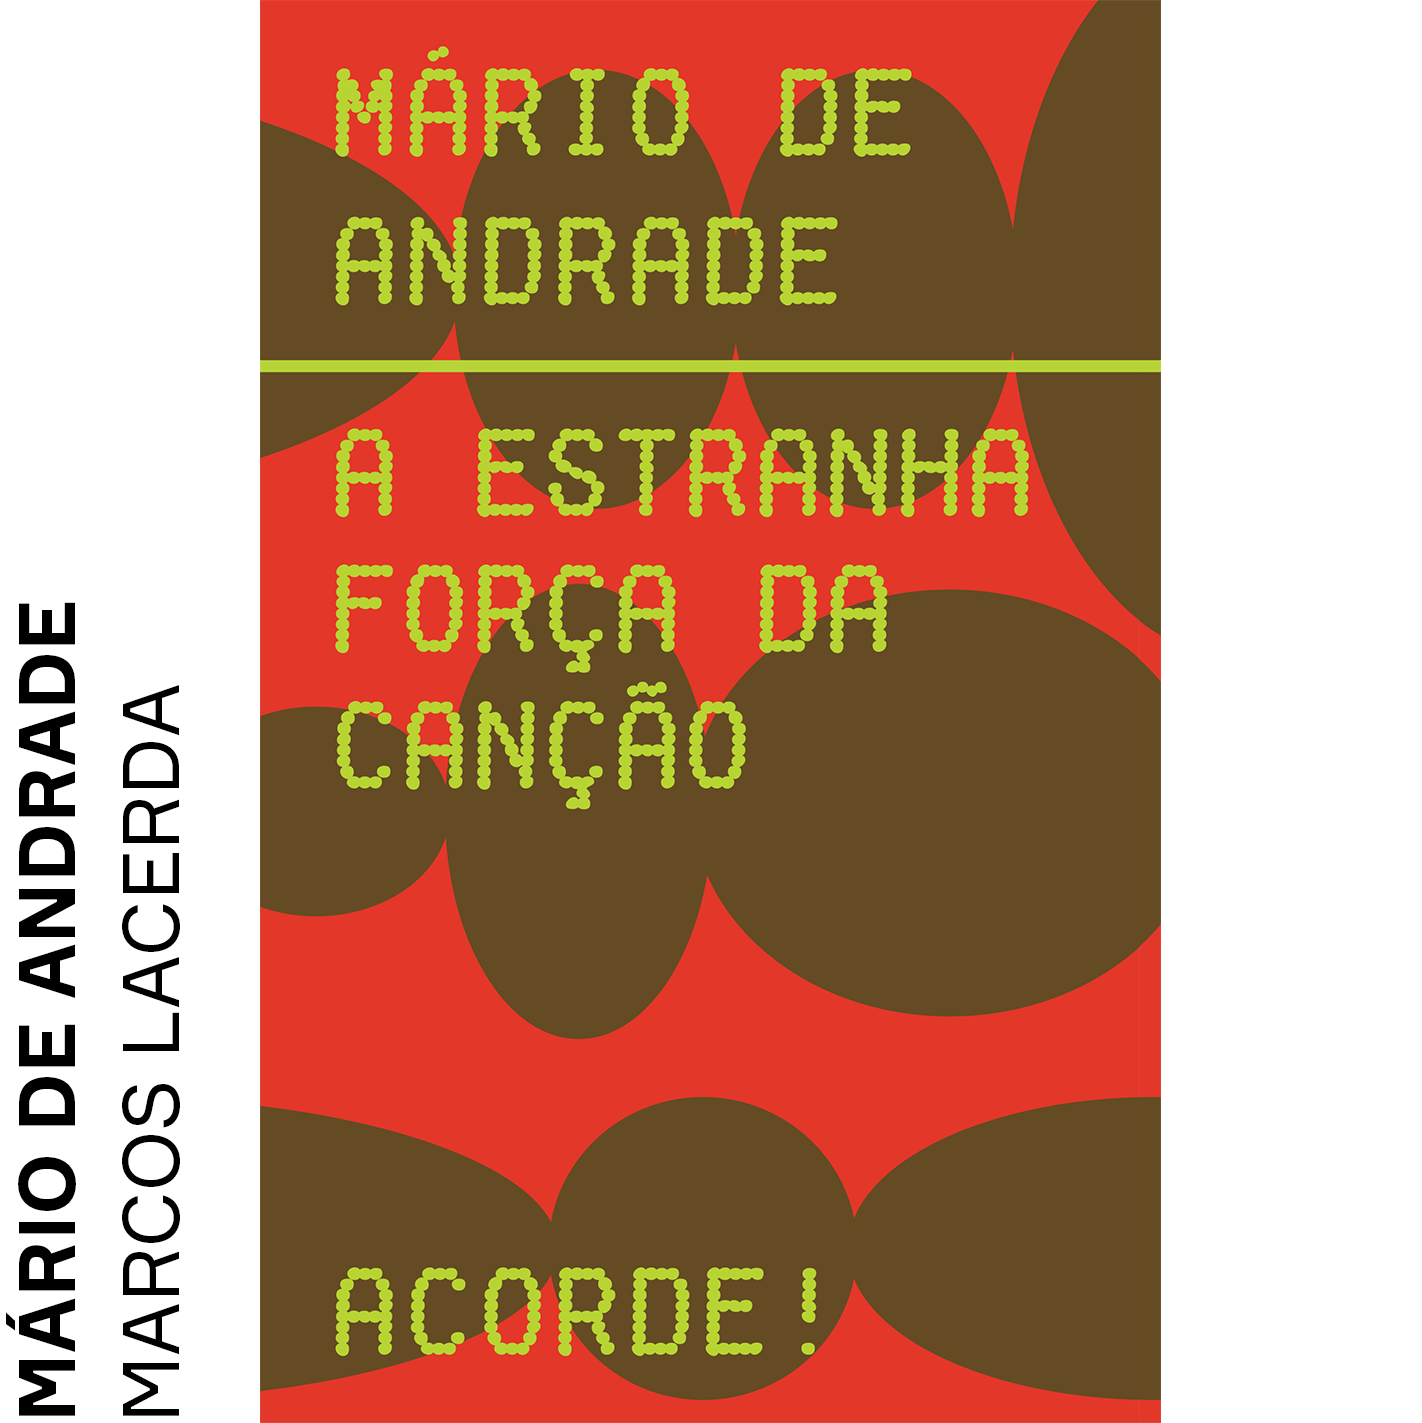
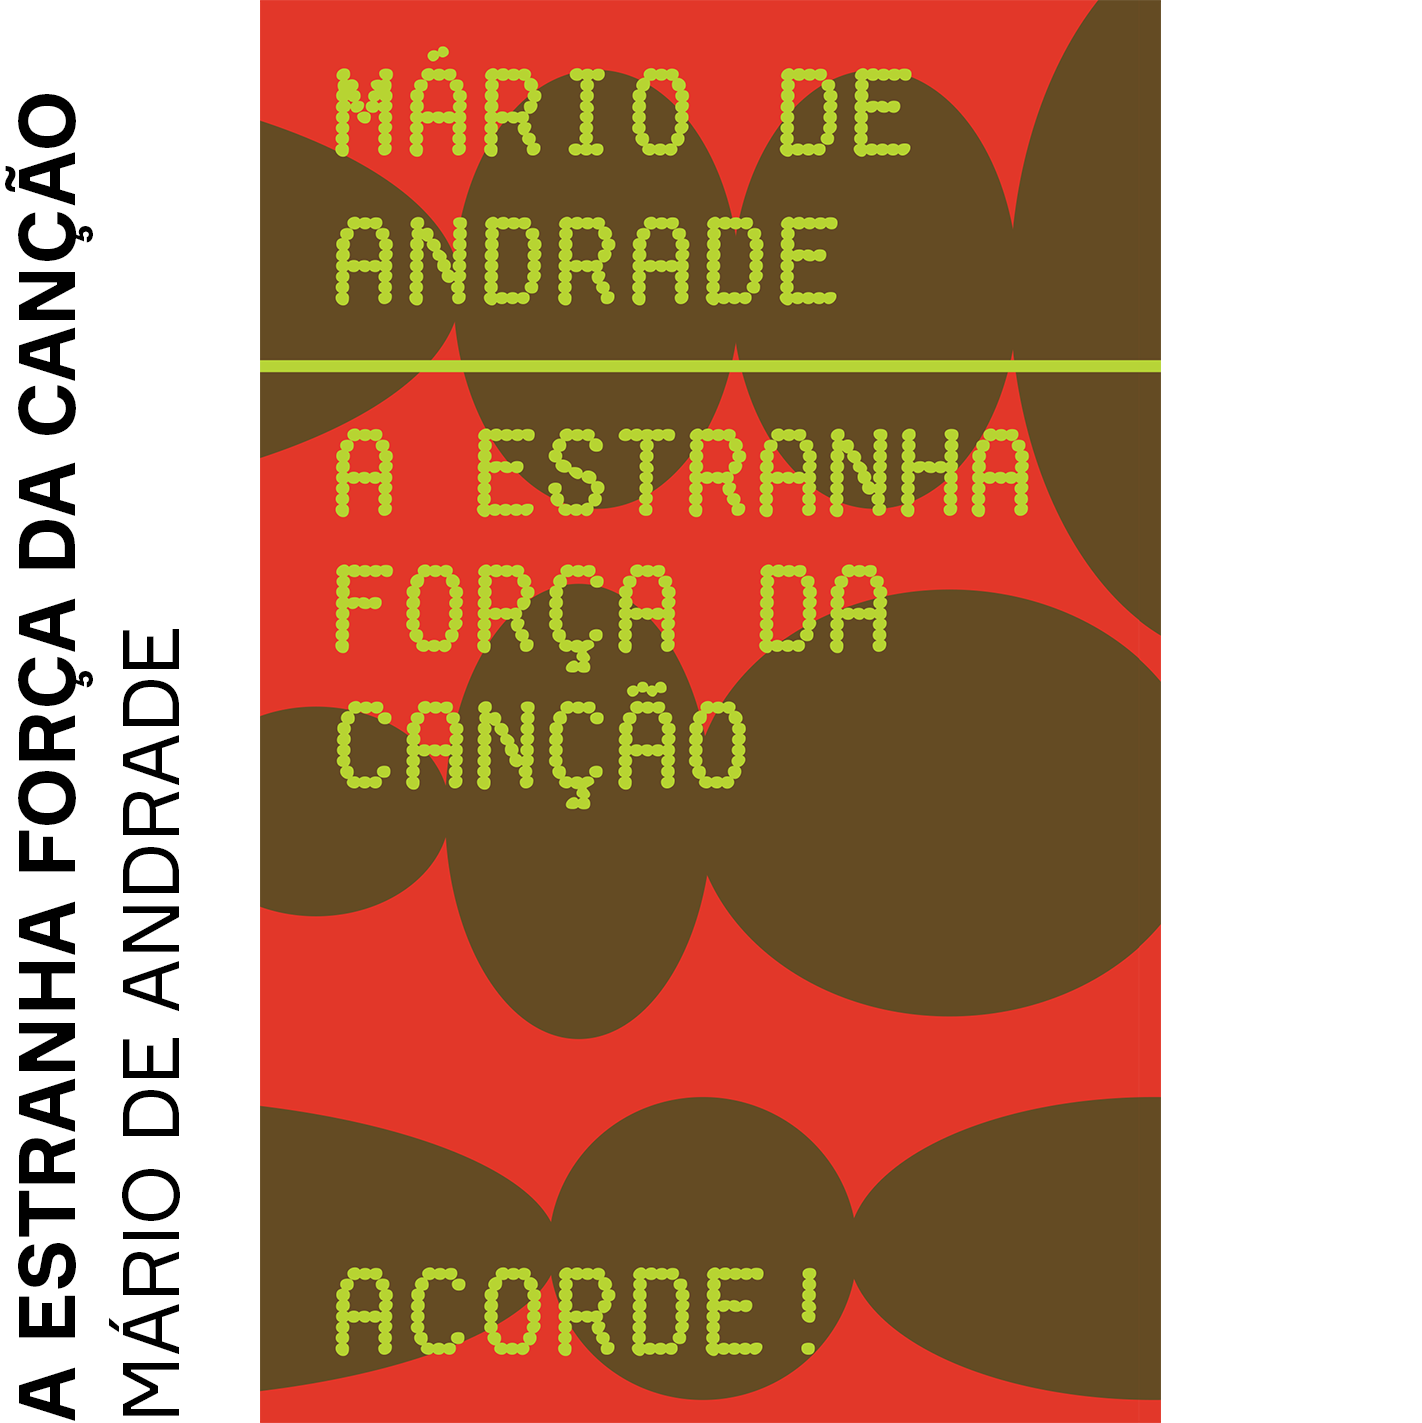
fechamento do catálogo

Changed region(s): [[0.0, 0.0618, 0.1238, 1.0]]

diff --git a/HEDRA.tex b/HEDRA.tex
@@ -273,13 +273,13 @@ Preço: R\$ 52,90\\
 \hspace*{-7cm}\hrulefill\hspace*{-7cm}
 \medskip
 
-\noindent{}John Ruskin (1819--1900), \hlc{foi um dos mais importantes intelectuais da era vitoriana. Principal teórico da preservação arquitetônica e ambiental da Inglaterra do século XIX e crítico perspicaz das transformações sociais trazidas ao país pela industrialização}, a qual veementemente combateu. Excêntrico, vinculado ao romantismo, grande esteta, valorizava a sensibilidade subjetiva em contraponto à razão; contraditório --- ao mesmo tempo aristocrático, reacionário e simpático ao socialismo. \textit{Prætērita}, sua autobiografia, foi sua última obra e testamento literário. Escrita ao longo de 27 anos, a desigualdade de suas partes reflete o estado mental do autor durante o período de sua elaboração. O livro, heterodoxo como gênero e de caráter ``experimental'', não segue os modelos de autobiografias então vigentes --- geralmente apresentados em termos de confissão religiosa ---, e poderia também ser considerado como narrativa de viagem, elegia, memória filial ou coleção de excertos de diários. Esta tradução contempla apenas o primeiro dos três volumes de \textit{Prætērita}.
+\noindent{}John Ruskin (1819--1900), \hlc{foi um dos mais importantes intelectuais da era vitoriana. Principal teórico da preservação arquitetônica e ambiental da Inglaterra do século XIX e crítico perspicaz das transformações sociais trazidas ao país pela industrialização}, a qual veementemente combateu. Excêntrico, vinculado ao romantismo, grande esteta, valorizava a sensibilidade subjetiva em contraponto à razão; contraditório --- ao mesmo tempo aristocrático, reacionário e simpático ao socialismo. \textit{Pr\ae t\textls[-470]{e˘}\textls[80]rita}, sua autobiografia, foi sua última obra e testamento literário. Escrita ao longo de 27 anos, a desigualdade de suas partes reflete o estado mental do autor durante o período de sua elaboração. O livro, heterodoxo como gênero e de caráter ``experimental'', não segue os modelos de autobiografias então vigentes --- geralmente apresentados em termos de confissão religiosa ---, e poderia também ser considerado como narrativa de viagem, elegia, memória filial ou coleção de excertos de diários. Esta tradução contempla apenas o primeiro dos três volumes de \textit{Pr\ae t\textls[-470]{e˘}\textls[80]rita}.
 
 \vfill
 \noindent\begin{minipage}[c]{1\linewidth}
 {\small\textbf{
 \hspace*{-.1cm}Editora: Hedra\\
-Título: Prætērita\\
+Título: {Pr\ae t\textls[-470]{e˘}\textls[80]rita}\\
 Autor: John Ruskin\\ 
 ISBN: 978-65-89705-24-6\\
 Páginas: 246\\
@@ -296,9 +296,9 @@ Preço: R\$ 66,00\\
 \hspace*{-7cm}\hrulefill\hspace*{-7cm}
 \medskip
 
-\noindent{}O poema \textit{Câmara escuro}, que dá nome ao livro, diz que \hlc{\textit{na produção de cores} está a \textit{falha do cristal}. E aí reside justamente uma boa descrição para os poemas de \textit{Câmara escuro}: uma obra que reflete contradições.} São descritas sensações que contemplam, ao mesmo tempo, divisões, mesclas, espaços e vazios. 
+\noindent{}As palavras incitam os sentidos, pois são no fundo uma grande experiência sinestésica. \hlc{Moacir Amâncio vai ao próprio modo de funcionamento do signo linguístico para colocá-lo a funcionar na sua raiz poética em que sons, imagens, memórias e sensaçães reverberam em uma câmara de ecos.} Mas, desde o título, é importante ver que a sinestesia é produzida por sutis deslocamentos, como aquele que se dá na passagem do gênero feminino de \textit{câmara} ao masculino de seu adjetivo, \textit{escuro}. 
 
-Mas todos sob a luz --- da chama poética que acende ou ascende em direção a um caminho misterioso --- de múltiplos prismas: do olho, do cristal, do deserto. Aqui a palavra, aprisionada em seu significado, reproduz uma sensação ampla de desconforto da língua e de sua expressão.
+Abre-se um espaço entre duas palavras, duas frases, dois pensamentos. E é pelas mínimas diferenças que o leitor passa a entrever o sentido do poema, como se tivesse que completar as frases que faltam pela dissonância produzida: \textit{câmara-escuro}, \textit{câmara clara} e \textit{quarto escuro}, \textit{câmara de ecos} e \textit{escuro que revela}, \textit{câmara de silêncio}, \textit{som escuro}... Luzes e sombras, câmeras e câmaras, ação e atenção se misturam até que permitam captar o instante em que se compreende que umas só existem através das outras.
 
 \vfill
 \noindent\begin{minipage}[c]{1\linewidth}

diff --git a/AYLLON.tex b/AYLLON.tex
@@ -32,7 +32,7 @@ Preço: R\$ 99,00\\
 \hspace*{-7cm}\hrulefill\hspace*{-7cm}
 \medskip
 
-\noindent{}\textit{Acontecimentos na irrealidade imediata} foi originalmente publicado em 1936, e é composto por um \hlc{amálgama caleidoscópico de situações que cruzam o caminho do narrador, um personagem desajustado ao mundo.} Esses acontecimentos arrastam-no a um turbilhão de pensamentos e ações atravessados por forças contrapostas, no qual as percepções misturadas da realidade, do tempo e do espaço dão lugar a um tipo diferente de discurso, que oferece inquietações fragmentadas ao invés de uma ordem racional.
+\noindent{}\textit{Acontecimentos na irrealidade imediata} foi originalmente publicado em 1936, e é composto por um \hlc{amálgama caleidoscópico de situações que cruzam o caminho do narrador, um personagem desajustado ao mundo.} Esses acontecimentos arrastam-no a um turbilhão de pensamentos e ações atravessados por forças contrapostas, no qual as percepções misturadas da realidade, do tempo e do espaço dão lugar a um tipo diferente de discurso, que oferece inquietações fragmentadas ao invés de uma ordem racional.
 
 \vfill
 \noindent\begin{minipage}[c]{1\linewidth}
@@ -120,8 +120,15 @@ Esta problematicidade se revela no título do livro de Laimonas Briedis,
 no original inglês, \textit{Vilnius, City of Strangers}, e na tradução
 para o português, \textit{Vilna, cidade dos outros}, que se deve aos
 cuidados de Fernando Klabin e, ao optar pela forma ``Vilna'', ecoa o nome
-da cidade no final do século \textsc{xix}, quando a família Klabin imigrou da
+da cidade no final do século XIX, quando a família Klabin imigrou da
 Lituânia e encontrou seu destino no Brasil.
+
+\vspace{\baselineskip}
+{\small\fakereceipt{
+\noindent{}Os diversos grupos étnicos que assinalaram, no correr dos tempos, a
+composição demográfica da cidade, articularam, em suas respectivas
+línguas, sua compreensão histórica do que é hoje \textit{Vilnius}.}}
+\vspace{\baselineskip}
 
 Czeslaw Miłosz, grande poeta da língua polonesa, prêmio Nobel de
 Literatura que nasceu na Lituânia e estudou em Vilna, intitula, não por
@@ -149,15 +156,8 @@ memória da normalidade de vida; para Bobrowski, o local das não
 realizadas possibilidades da normalidade de vida; para Sutzkever, o
 local das anormalidades de vida.\footnote{\textit{Idem, ibid.}, p. 89.}
 
-\vspace{\baselineskip}
-{\small\fakereceipt{
-\noindent{}São os itinerários dos caminhantes que passaram ou viveram em \textit{Vilnius}
-que nortearam, com sensibilidade europeia, o ``sair em visita'' de
-Laimonas Briedis na construção de sua narrativa.}}
-\vspace{\baselineskip}
-
 Em todos os três, a experiência de base da perda e da dor provém do fato
-de que as rupturas do século \textsc{xx} fizeram, como analisou Hannah Arendt,
+de que as rupturas do século XX fizeram, como analisou Hannah Arendt,
 com que a política determinasse, independentemente de suas vontades, os
 rumos de vida, como, aliás, para tantas pessoas na Europa. Os três foram, assim, 
 para Laimonas Briedis, uma chave para a
@@ -165,7 +165,7 @@ compreensão da complexidade de uma cidade que ele não vivenciou e que
 não tem uma identidade de fácil ou inequívoca definição.
 
 Hannah Arendt destacou em sua obra, a partir de sua experiência
-reflexiva a respeito das rupturas inerentes aos extremos do século \textsc{xx}, o
+reflexiva a respeito das rupturas inerentes aos extremos do século XX, o
 poder redentor e esclarecedor da narrativa.
 
 Numa época de ``universais fugidios'', a narrativa, em conjunto com a

diff --git a/CATALOGO.tex b/CATALOGO.tex
@@ -31,9 +31,9 @@
 \hspace*{-.5cm}\parbox{180pt}{\raggedright 
 Neste catálogo apresentamos os 34 lançamentos das cinco editoras do grupo EdLab, publicados durante o primeiro trimestre de 2022 (janeiro--março).\\
 \smallskip
-Além dos releases, fichas técnicas e lista de destaques, consta também uma seleção de artigos escolhida pelos editores. Lembramos aos livreiros que todos os nossos títulos estão cadastrados na Metabooks.\\
+Além dos releases, fichas técnicas e lista de destaques, consta também uma seleção de artigos escolhidos pelos editores. Lembramos aos livreiros que todos os nossos títulos estão cadastrados na Metabooks.\\
 \bigskip
-Conheça também nossos sites\\
+Conheça também os sites\\
 \textbf{hedra.com.br}\\
 \textbf{n-1edicoes.org}\\
 \textbf{editoracircuito.com.br}\\
@@ -57,19 +57,19 @@ Conheça também nossos sites\\
 \begin{tabular}{cccc}
 \vspace{.5cm}
 \hspace*{.5cm}
+\subfloat{\includegraphics[width=40mm]{./GRID/HEDRA_GOLDMAN.png}}
 \subfloat{\includegraphics[width=40mm]{./GRID/HEDRA_ARUAQUES.png}}
-\subfloat{\includegraphics[width=40mm]{./GRID/HEDRA_RUSKIN.png}}
 \subfloat{\includegraphics[width=40mm]{./GRID/HEDRA_SOCIEDADE.png}}\\\hspace*{.5cm}
 
 \vspace{.5cm}
 
 \subfloat{\includegraphics[width=40mm]{./GRID/HEDRA_ATIVISMO.png}}
-\subfloat{\includegraphics[width=40mm]{./GRID/HEDRA_CAMARA.png}}
-\subfloat{\includegraphics[width=40mm]{./GRID/HEDRA_GOLDMAN.png}}\\\hspace*{.5cm}
+\subfloat{\includegraphics[width=40mm]{./GRID/HEDRA_DESINFORMACAO.png}}
+\subfloat{\includegraphics[width=40mm]{./GRID/HEDRA_RUSKIN.png}}\\\hspace*{.5cm}
 
 \vspace{.5cm}
 
-\subfloat{\includegraphics[width=40mm]{./GRID/HEDRA_DESINFORMACAO.png}}
+\subfloat{\includegraphics[width=40mm]{./GRID/HEDRA_CAMARA.png}}
 \subfloat{\includegraphics[width=40mm]{./GRID/HEDRA_CANTOS.png}}
 \subfloat{\includegraphics[width=40mm]{./GRID/N-1_HABITAT.png}}\\\hspace*{.5cm}
 

diff --git a/ACORDE.tex b/ACORDE.tex
@@ -20,8 +20,8 @@ Seu trabalho na crítica começa a se desenvolver a partir dos anos 80, com a es
 \hspace*{-.4cm}\begin{minipage}[c]{.5\linewidth}
 \small\textbf{
 \hspace*{-.1cm}Editora: Acorde\\
-Título: Luiz Tatit: no princípio era o meio\\
-Autor: Luís Augusto Fischer\\ 
+Título: Mo princípio era o meio\\
+Autor: Luiz Tatit\\ 
 ISBN: 978-65-994412-9-5\\
 Páginas: 144\\
 Formato: 13,3x21\,cm\\
@@ -45,10 +45,10 @@ Entre os vários pontos extremos desse quadro --- o polo erudito e o popular, tr
 \hspace*{-.4cm}\begin{minipage}[c]{.5\linewidth}
 \small\textbf{
 \hspace*{-.1cm}Editora: Acorde\\
-Título: Mário de Andrade: a estranha\\força da canção\\
-Autor: Marcos Lacerda\\ 
+Título: A estranha força da canção\\
+Autor: Mário de Andrade\\ 
 ISBN: 978-65-994412-8-8\\
-Páginas: 198\\
+Páginas: 196\\
 Formato: 13,3x21\,cm\\
 Preço: R\$ 65,90\\
 }
